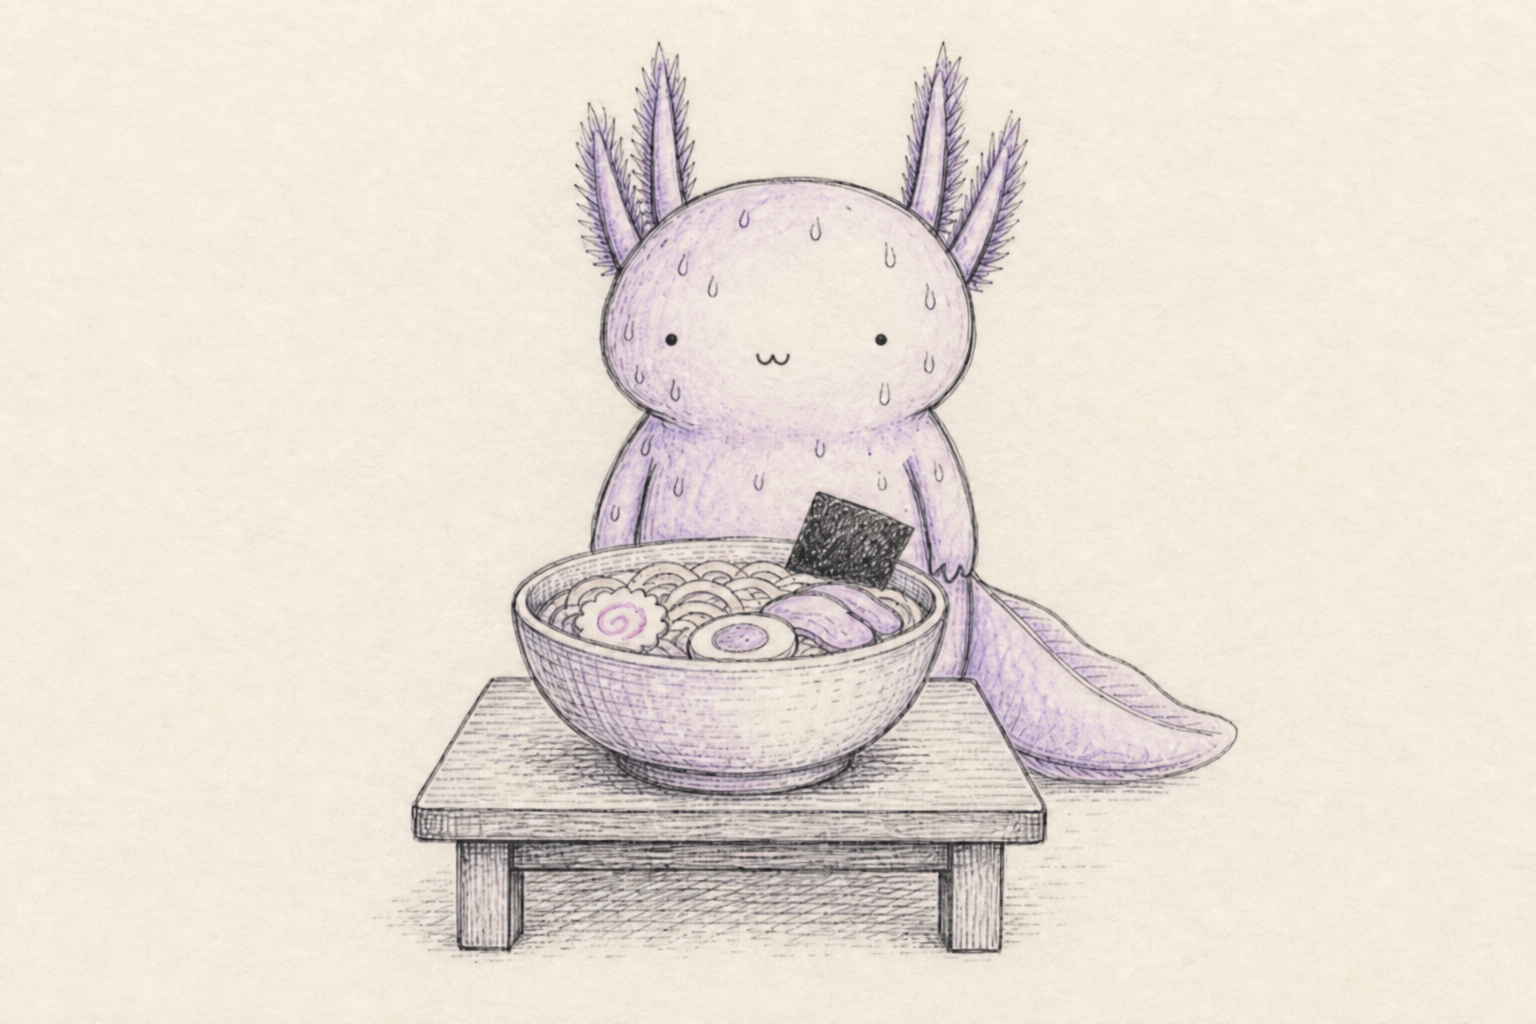
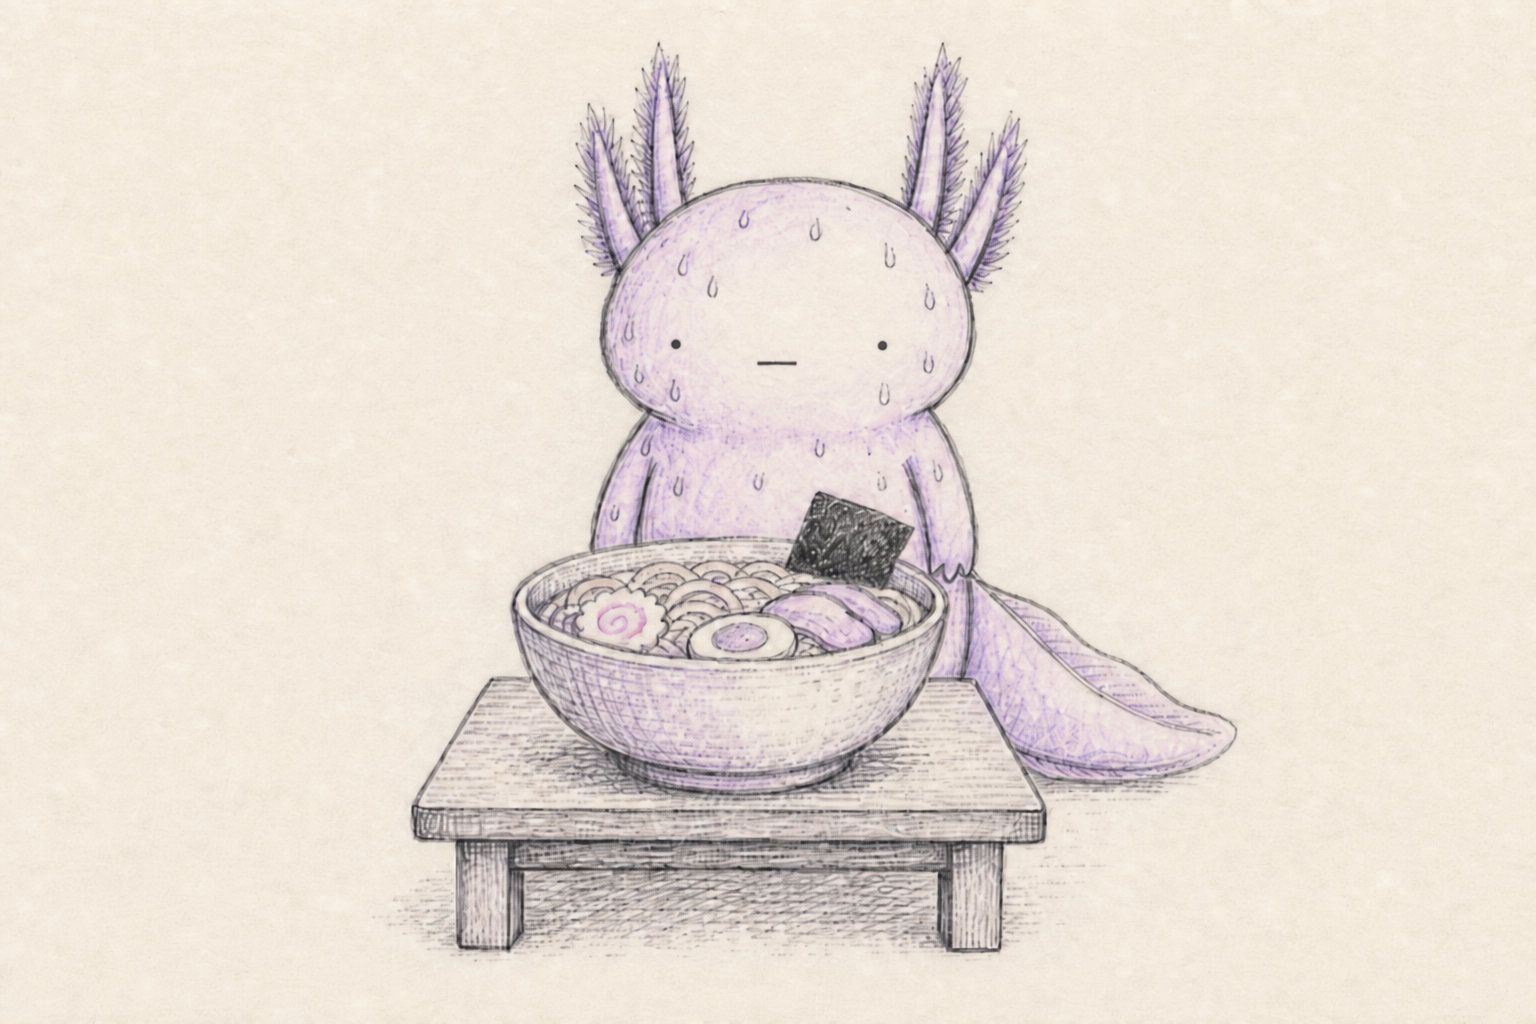
Lock Axo face to 小眼平嘴 (small eyes, flat mouth)
Update SVGs and PNGs: eyes/mouth only per brand sample; body unchanged.

diff --git a/docs/axo-face-locked-zh-TW.md b/docs/axo-face-locked-zh-TW.md
@@ -10,7 +10,7 @@
 | 部位 | 規格 | 禁止 |
 |------|------|------|
 | **眼睛** | 兩顆**極小**實心黑點；**距離偏寬**（大臉兩側，呆視前方） | 大眼白、睫毛、瞇眼、斜眼 |
-| **嘴巴** | **小小 `w` 形嘴**（居中、略低於眼線） | 橫線 `_` 嘴、張口、橢圓嘴、牙齒 |
+| **嘴巴** | **平嘴** — 一條短、細、直的水平線（居中、略低於眼線） | `w` 嘴、張口、橢圓嘴、牙齒 |
 | **表情** | 死板、空白、發呆、無情緒 | 笑、哭、驚訝 o 嘴（除非品牌方書面解禁） |
 
 ### SVG 數值（標準立姿 400×520）
@@ -19,7 +19,7 @@
 |------|-----|
 | 左眼 | `cx="170" cy="168" r="2.5"` |
 | 右眼 | `cx="230" cy="168" r="2.5"` |
-| 嘴 | `M 188 202 Q 193 208 198 202 Q 203 208 208 202` stroke ~2px（tiny w） |
+| 嘴 | `M 192 204 L 208 204` stroke 1.8–2px（平嘴） |
 
 > 換姿勢時**只移動身體**，眼嘴相對頭部位置與形狀不變。
 
@@ -46,5 +46,5 @@
 ## Midjourney 臉部片段（貼進主提示詞）
 
 ```
-very tiny solid black dot eyes far apart on wide face, tiny centered w-shaped mouth, blank deadpan cute expression
+very tiny solid black dot eyes far apart on wide face, one short thin straight horizontal flat line mouth 平嘴, blank deadpan 發呆 expression
 ```
